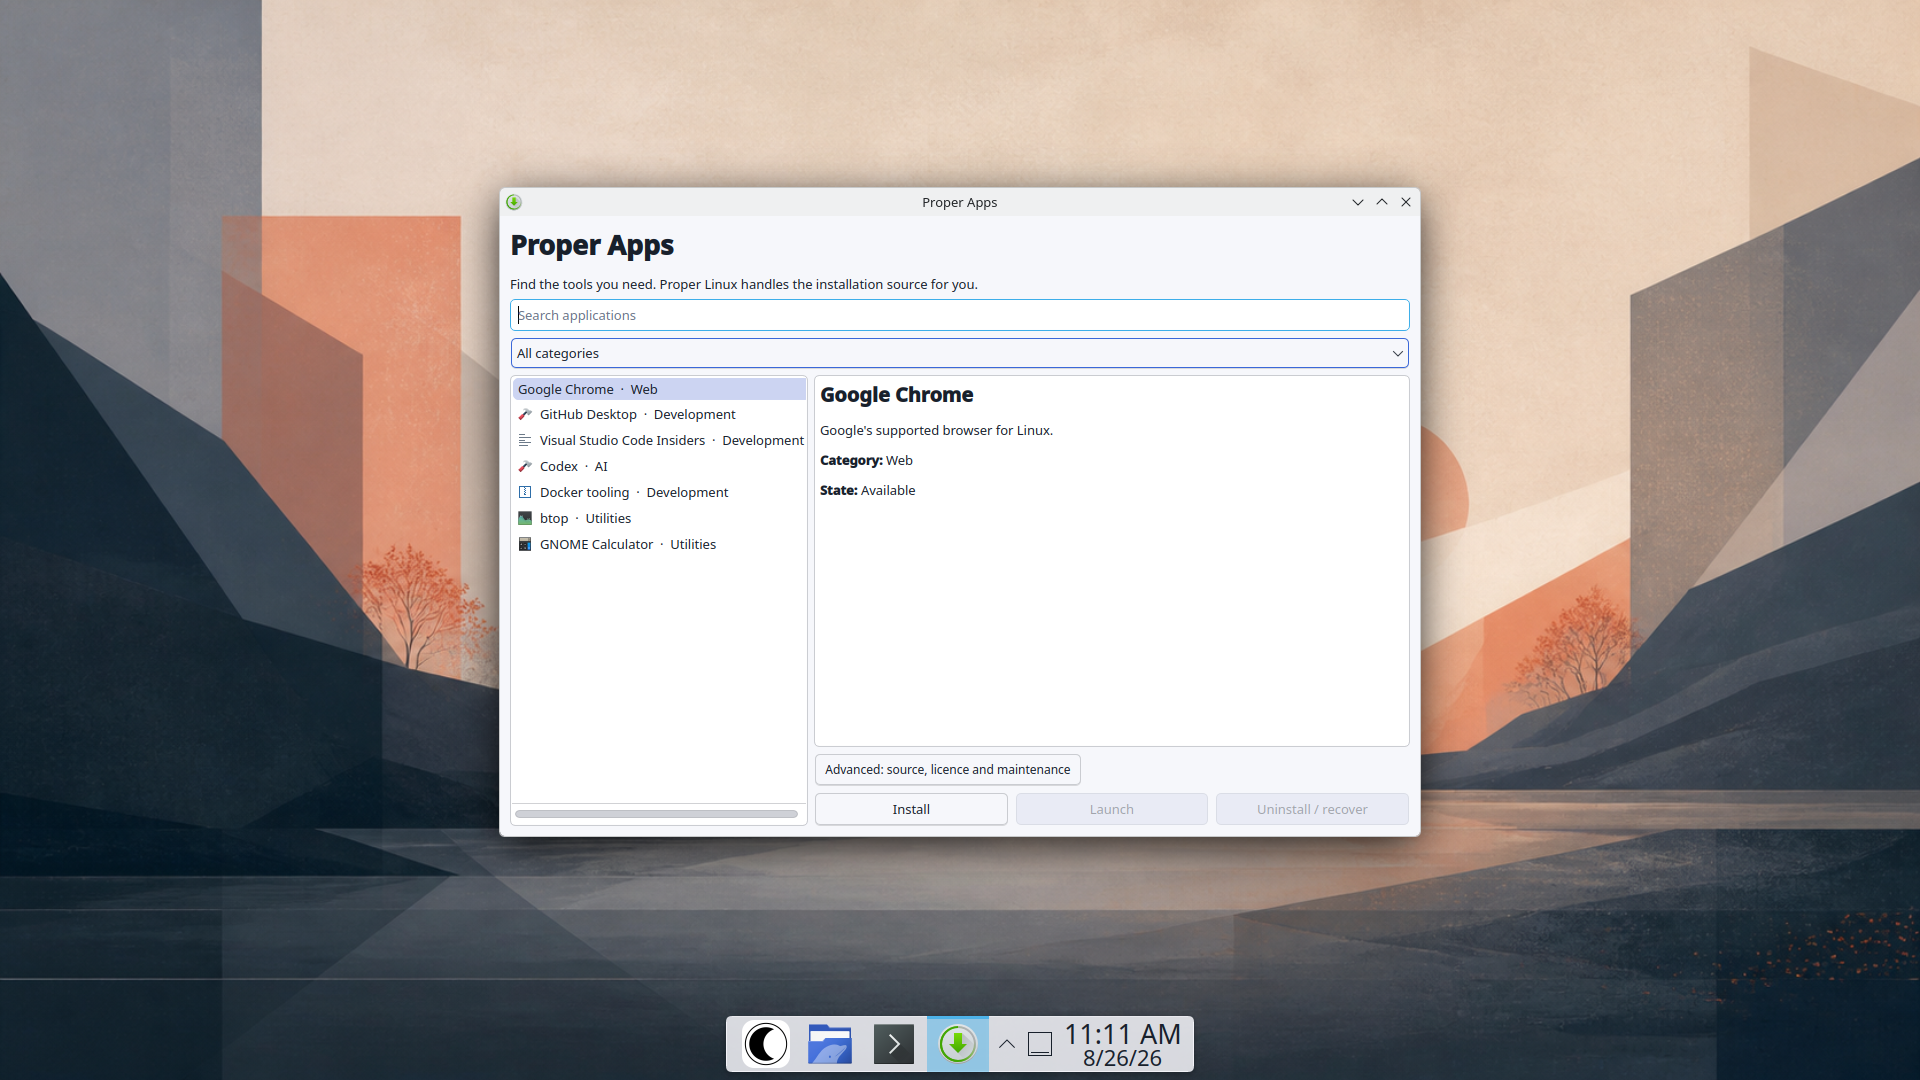
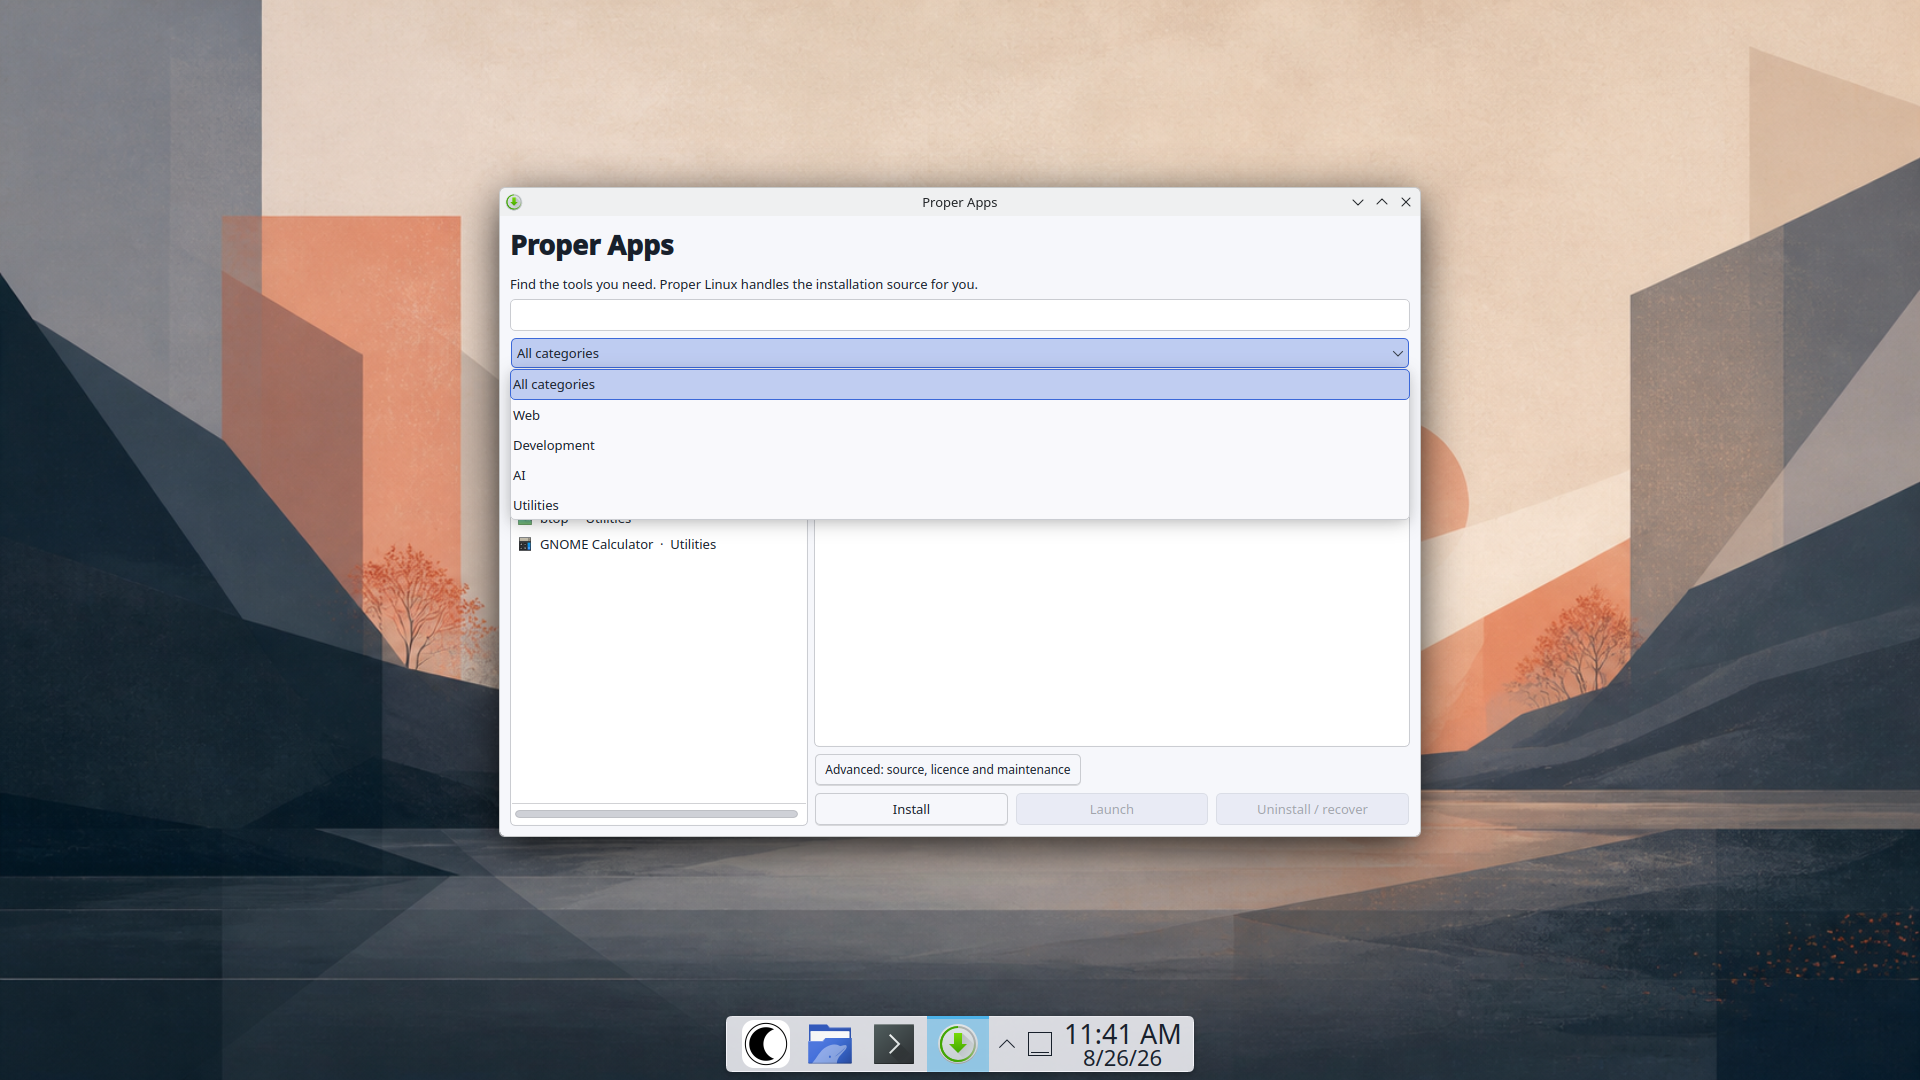
Add final2 catalogue and HiDPI evidence

Changed region(s): [[0.25, 0.275, 0.75, 0.4889]]

diff --git a/docs/PHASE4-5-STATUS.md b/docs/PHASE4-5-STATUS.md
@@ -22,9 +22,12 @@ All evidence in `docs/evidence/checkpoint4-final/` must be captured from the ISO
[8 lines of base64/hex data omitted]
 
-The remaining catalogue and desktop journeys are still being recaptured from this exact ISO; screenshots from earlier ISO generations are intentionally not treated as current evidence.
+The remaining provider-operation, recovery, retained-desktop, and 200% journeys are still being recaptured from this exact ISO; screenshots from earlier ISO generations are intentionally not treated as current evidence.
 
 ## Validation
 
@@ -36,7 +39,7 @@ Checkpoint 4 is not PM-approved. Do not begin Phase 6. Continue the single fresh
 
 ## Known defects
 
-- P3: full final2-ISO interaction journey and 200% inspection evidence remain to be captured in this guest.
+- P3: provider-operation progress/installed/failure/recovery states, the AI-agent launch path, and retained desktop interactions remain to be captured from final2 before PM approval.
 
 ## PM handoff request
 
